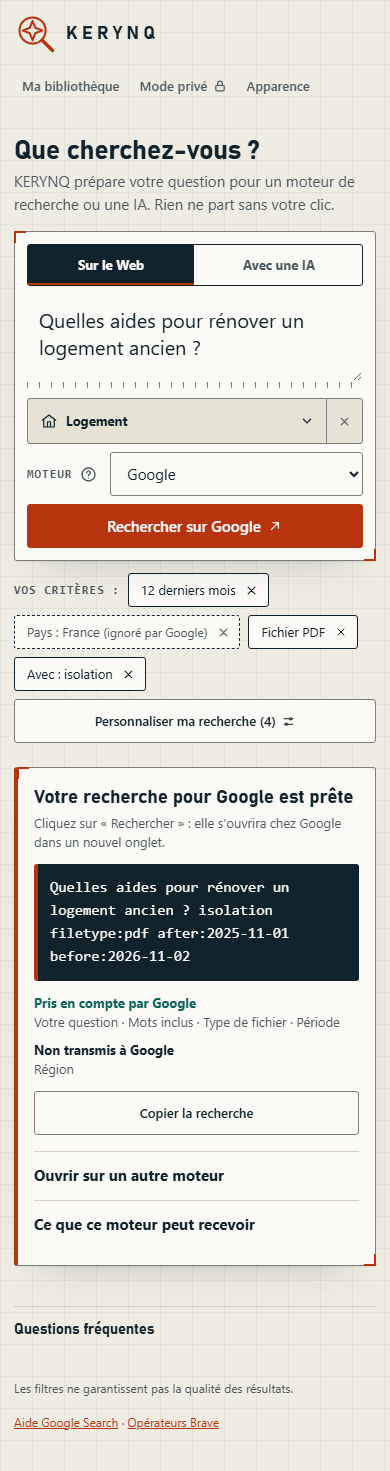
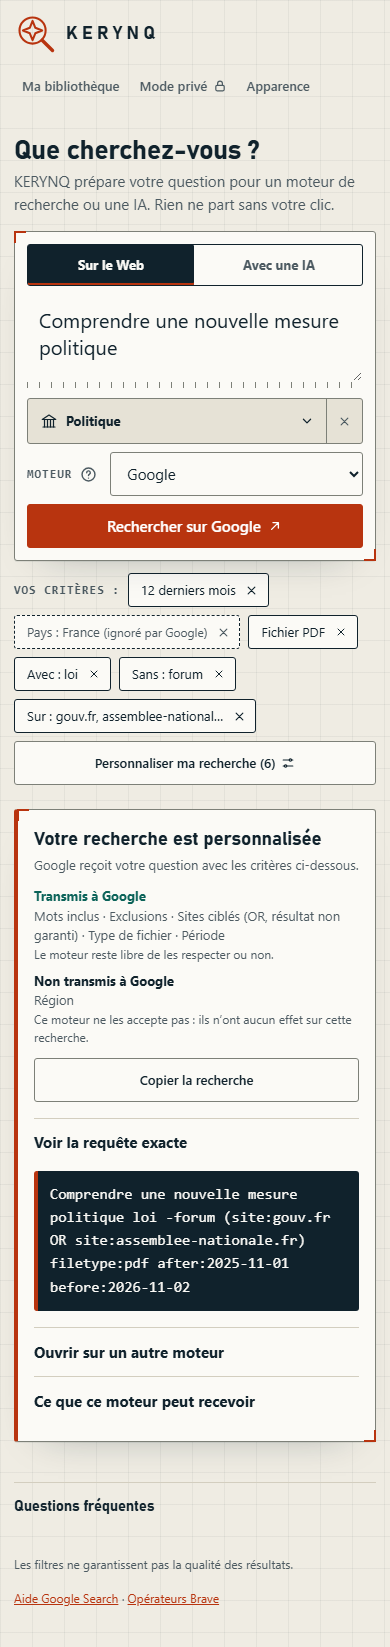
feat: turn the web result panel into a search guide
Show engine-aware suggestions that open the matching setting, summarize what is sent or not, and fold the exact query. Queries, prompts and the AI panel are unchanged.

diff --git a/assets/js/app.js b/assets/js/app.js
@@ -121,7 +121,7 @@ function compatibility(){
  const ignored=[...sites.flatMap(x=>x.invalid).map(x=>x+' (format non reconnu, séparer par une virgule)'),...sites.flatMap(x=>x.overflow).map(x=>x+' (limite de 10 sites)')];
  return {web,prompt,ignored};
 }
-function renderCompatibility(){const root=$('queryCompatibility');root.replaceChildren();const c=compatibility(),engine=KerynqSearch.engineById(state.engine).label;function line(heading,items,ok){if(!items.length)return;const el=node('div','compat-line');el.append(node('strong','',heading),node('span','',items.join(' · ')));if(ok)el.classList.add('compat-applied');root.append(el)}line('Pris en compte par '+engine,c.web.map(x=>x==='Sujet principal'?'Votre question':x),true);line('Non transmis à '+engine,c.prompt.filter(x=>!(x==='Langues préférées'&&state.language===DEFAULT.language)).map(x=>x.replace(/\s*\((non transmise?s?|consigne IA).*\)$/,'')),false);line('Sites ignorés',c.ignored,false)}
+function renderCompatibility(){const root=$('queryCompatibility');root.replaceChildren();const c=compatibility(),engine=KerynqSearch.engineById(state.engine).label;function line(heading,items,ok,note){if(!items.length)return;const el=node('div','compat-line');el.append(node('strong','',heading),node('span','',items.join(' · ')));if(note)el.append(node('small','',note));if(ok)el.classList.add('compat-applied');root.append(el)}line('Transmis à '+engine,c.web.filter(x=>x!=='Sujet principal'),true,'Le moteur reste libre de les respecter ou non.');line('Non transmis à '+engine,c.prompt.filter(x=>!(x==='Langues préférées'&&state.language===DEFAULT.language)).map(x=>x.replace(/\s*\((non transmise?s?|consigne IA).*\)$/,'')),false,'Ce moteur ne les accepte pas : ils n’ont aucun effet sur cette recherche.');line('Sites ignorés',c.ignored,false)}
 // Critères choisis par l'utilisateur : les valeurs par défaut n'y figurent pas.
 const short=(text,max=28)=>text.length>max?text.slice(0,max-1).trim()+'…':text;
 function transmitted(fields){return KerynqSearch.compile({topic:'x',...fields},state.engine).web.length>1}
@@ -160,7 +160,19 @@ function renderSummary(){
 const PROMPT_KEYWORDS=/(\b(?:sources?|dates?|incertitudes?|officiel(?:le)?s?|vérifi\p{L}*)(?![\p{L}]))/giu;
 function appendEmphasis(parent,text){for(const [i,part] of text.split(PROMPT_KEYWORDS).entries())parent.append(i%2?node('strong','pl-key',part):document.createTextNode(part))}
 function renderPromptPreview(){const root=$('promptPreview'),top=root.scrollTop;root.replaceChildren();let list=null;for(const line of KerynqPrompt.structure(buildPrompt())){if(line.type!=='item')list=null;if(line.type==='blank'){root.append(node('div','pl pl-blank'));continue}if(line.type==='title'||line.type==='section'){const h=node(line.type==='title'?'h3':'h4','pl pl-'+line.type);h.append(node('span','pl-marker',line.marker),document.createTextNode(line.text));root.append(h);continue}if(line.type==='item'){if(!list){list=node('ul','pl-list');root.append(list)}const li=node('li','pl pl-item');li.append(node('span','pl-marker',line.marker));if(line.label)li.append(node('span','pl-label',line.label));appendEmphasis(li,line.text);list.append(li);continue}const p=node('p','pl pl-text'+(line.user?' pl-user':''));if(line.user)p.textContent=line.text;else appendEmphasis(p,line.text);root.append(p)}root.scrollTop=top}
-function renderResult(){renderSummary();const filled=!!state.topic.trim(),ai=state.previewTab==='prompt';$('resultPreview').classList.toggle('is-empty',!filled);const service=$(ai?'aiProvider':'engineSelect').selectedOptions[0]?.textContent.replace(/ \(.*/,'').replace(/ · .*/,'')||'';$('resultTitle').textContent=ai?'Votre texte pour '+service+' est prêt':'Votre recherche pour '+service+' est prête';$('resultDestination').textContent=ai?'Cliquez sur « Copier et ouvrir », puis collez le texte dans la conversation.':'Cliquez sur « Rechercher » : elle s’ouvrira chez '+service+' dans un nouvel onglet.';renderPromptPreview();$('queryPreview').textContent=searchQuery(state.engine)||'';$('copyQuery').disabled=!state.topic.trim();$('runSearch').disabled=!state.topic.trim();for(const el of document.querySelectorAll('[data-engine]'))el.disabled=!state.topic.trim();updatePrimary();renderCompatibility();renderEngineTable();}
+// Propositions limitées à ce que le moteur choisi peut recevoir : aucune n'applique de valeur.
+const WEB_SUGGESTIONS=[['period','Période','Limiter aux informations récentes','period'],['filetype','Documents PDF','Chercher un format précis','filetype'],['site','Sites spécifiques','Cibler un ou plusieurs domaines','includeSites'],['exclude','Exclure des mots','Éviter certains termes','excludeWords'],['words','Mots à inclure','Ajouter des termes à la recherche','includeWords']];
+function openSetting(fieldId){const sheet=$('refinePanel');sheet.showModal();const field=$(fieldId);const group=field.closest('details');if(group)group.open=true;field.focus()}
+function renderWebGuide(){
+ const engine=KerynqSearch.engineById(state.engine),compiled=KerynqSearch.compile(state,state.engine),chosen=activeCriteria().length,sent=compiled.web.length>1;
+ $('resultTitle').textContent=sent?'Votre recherche est personnalisée':'Votre recherche est prête';
+ $('resultDestination').textContent=sent?engine.label+' reçoit votre question avec les critères ci-dessous.':chosen?engine.label+' recevra votre question telle quelle : vos critères ne lui sont pas transmis.':engine.label+' recevra votre question telle quelle.';
+ const items=chosen?[]:WEB_SUGGESTIONS.filter(x=>engine.ops[x[0]]).slice(0,4),root=$('webSuggestions'),key=engine.id+':'+items.map(x=>x[0]).join();
+ $('webGuide').hidden=!items.length;$('webGuideNone').hidden=!!(chosen||items.length);$('webGuideNone').textContent=engine.label+' ne reçoit que votre question. Pour ajouter des critères, choisissez un autre moteur.';
+ if(root.dataset.key!==key){root.dataset.key=key;root.replaceChildren();for(const [id,title,hint,field] of items){const b=node('button','suggestion');b.type='button';b.dataset.suggest=id;b.append(node('strong','',title),node('span','',hint));b.addEventListener('click',()=>openSetting(field));root.append(b)}}
+ const exact=compiled.query!==state.topic.trim();$('queryExact').hidden=!exact;if(!exact)$('queryExact').open=false;
+}
+function renderResult(){renderSummary();const filled=!!state.topic.trim(),ai=state.previewTab==='prompt';$('resultPreview').classList.toggle('is-empty',!filled);const service=$(ai?'aiProvider':'engineSelect').selectedOptions[0]?.textContent.replace(/ \(.*/,'').replace(/ · .*/,'')||'';if(ai){$('resultTitle').textContent='Votre texte pour '+service+' est prêt';$('resultDestination').textContent='Cliquez sur « Copier et ouvrir », puis collez le texte dans la conversation.'}else renderWebGuide();renderPromptPreview();$('queryPreview').textContent=searchQuery(state.engine)||'';$('copyQuery').disabled=!state.topic.trim();$('runSearch').disabled=!state.topic.trim();for(const el of document.querySelectorAll('[data-engine]'))el.disabled=!state.topic.trim();updatePrimary();renderCompatibility();renderEngineTable();}
 
 function switchPreview(tab){state.previewTab=tab;const prompt=tab==='prompt';$('tabPrompt').setAttribute('aria-selected',String(prompt));$('tabWeb').setAttribute('aria-selected',String(!prompt));$('tabPrompt').tabIndex=prompt?0:-1;$('tabWeb').tabIndex=prompt?-1:0;$('panelPrompt').hidden=!prompt;$('panelWeb').hidden=prompt;$('enginePicker').hidden=prompt;$('assistantPicker').hidden=!prompt;$('customAIWrap').hidden=!prompt||state.aiProvider!=='custom';document.body.dataset.destination=tab;$('refineHelp').textContent=prompt?'Tout est facultatif. Ces choix s’ajoutent au texte pour l’IA.':'Tout est facultatif. Ces choix s’appliquent à la recherche sur le Web.';renderCategories();updatePrimary();save();renderResult()}
 function updatePrimary(){const ai=state.previewTab==='prompt';const name=$(ai?'aiProvider':'engineSelect').selectedOptions[0]?.textContent.replace(/ \(.*/,'')||'';$('runSearch').textContent=(ai?'Copier et ouvrir ':'Rechercher sur ')+name}
@@ -202,6 +214,7 @@ $('clearSpecial').addEventListener('click',()=>{state.options[state.category]=[]
 $('tabPrompt').addEventListener('click',()=>switchPreview('prompt'));$('tabWeb').addEventListener('click',()=>switchPreview('web'));for(const b of [$('tabPrompt'),$('tabWeb')])b.addEventListener('keydown',e=>{const keys=['ArrowLeft','ArrowRight','Home','End'];if(!keys.includes(e.key))return;e.preventDefault();const target=e.key==='Home'?$('tabPrompt'):e.key==='End'?$('tabWeb'):b===$('tabPrompt')?$('tabWeb'):$('tabPrompt');target.focus();target.click()});
 $('copyPrompt').addEventListener('click',()=>copy(buildPrompt()));$('copyQuery').addEventListener('click',()=>copy(searchQuery(state.engine)));$('downloadPrompt').addEventListener('click',()=>download('kerynq-consigne.md',buildPrompt()+'\n','text/markdown;charset=utf-8'));
 for(const b of document.querySelectorAll('[data-engine]'))b.addEventListener('click',()=>{if(!state.topic.trim())return notify('Écrivez d’abord votre question');const engine=b.dataset.engine;state.engine=engine;$('engineSelect').value=engine;save();renderResult();const url=searchUrl(engine);const a=document.createElement('a');a.href=url;a.target='_blank';a.rel='noopener noreferrer';document.body.append(a);a.click();a.remove()});
+$('refinePanel').addEventListener('close',()=>{const a=document.activeElement;if(!a||a===document.body||$('refinePanel').contains(a)||!a.offsetParent)$('refineToggle').focus()});
 for(const [toggle,sheet,close] of [['refineToggle','refinePanel','refineClose'],['libraryToggle','libraryPanel','libraryClose']]){$(toggle).addEventListener('click',()=>{if(sheet==='libraryPanel')renderLibrary();$(sheet).showModal()});$(close).addEventListener('click',()=>$(sheet).close());$(sheet).addEventListener('click',e=>{if(e.target===$(sheet))$(sheet).close()})}
 $('fontToggle').addEventListener('click',()=>{state.largeText=!state.largeText;save();sync()});$('themeToggle').addEventListener('click',()=>toggleThemeMenu());
 $('exportConfig').addEventListener('click',()=>{if(privateMode)return notify('Quittez le mode privé pour exporter un profil');download('kerynq-v5-sauvegarde.json',JSON.stringify({app:'KERYNQ',version:5,settings:state,favorites:getSaved(),templates:getCustomTemplates()},null,2),'application/json;charset=utf-8')});

diff --git a/index.html b/index.html
@@ -80,10 +80,12 @@
     <p id="aiTransferNote" class="note">KERYNQ n’envoie rien à l’assistant. Vous seul collez le texte, et le service applique ses propres conditions.</p>
   </div></section>
   <section id="panelWeb" class="preview-panel" role="tabpanel" aria-labelledby="tabWeb" tabindex="-1" hidden><div class="when-filled">
-    <output id="queryPreview" class="preview-mono" aria-label="Recherche envoyée au moteur" aria-live="polite"></output>
+    <div id="webGuide" class="web-guide"><h3 id="suggestTitle">Rendez votre recherche plus précise</h3><div id="webSuggestions" class="suggestions" role="group" aria-labelledby="suggestTitle"></div></div>
+    <p id="webGuideNone" class="sub" hidden></p>
     <div id="queryCompatibility" class="query-compatibility" aria-live="polite"></div>
     <div id="engineSuggest" class="engine-suggest" hidden><span id="engineSuggestText"></span><button type="button" class="btn" id="useSuggestedEngine">Utiliser ce moteur</button></div>
     <div class="preview-actions"><button type="button" class="btn" id="copyQuery">Copier la recherche</button></div>
+    <details class="fold query-exact" id="queryExact"><summary>Voir la requête exacte</summary><output id="queryPreview" class="preview-mono" aria-label="Recherche envoyée au moteur"></output></details>
     <details class="fold engine-other"><summary>Ouvrir sur un autre moteur</summary><div class="go-search" id="engineButtons" role="group" aria-label="Ouvrir la recherche"></div></details>
     <details class="fold engine-table-wrap"><summary>Ce que ce moteur peut recevoir</summary><table class="engine-table"><caption class="sr-only">Filtres transmis par KERYNQ au moteur choisi</caption><thead><tr><th scope="col">Filtre</th><th scope="col" id="engineTableName">Moteur</th></tr></thead><tbody id="engineTable"></tbody></table><p class="note">« Transmis » signifie que le filtre figure dans la recherche envoyée. Le moteur peut l’ignorer ou l’interpréter à sa façon.</p></details>
   </div></section>

diff --git a/assets/css/styles.css b/assets/css/styles.css
@@ -247,6 +247,15 @@ h1 label{display:inline;margin:0;font:inherit;letter-spacing:inherit;text-transf
 .compat-line strong{display:block;font-weight:650}
 .compat-line span{color:var(--muted)}
 .compat-applied strong{color:var(--ok)}
+.compat-line small{display:block;color:var(--muted);font-size:var(--t-xs)}
+.query-compatibility:empty{display:none}
+.web-guide h3{margin:var(--s2) 0 var(--s3);font-size:var(--t-md)}
+.suggestions{display:grid;grid-template-columns:repeat(2,minmax(0,1fr));gap:var(--s2)}
+.query-exact[hidden]+.fold{margin-top:var(--s4)}
+.suggestion{display:block;min-height:44px;padding:var(--s3);border:1px solid var(--line);border-radius:var(--radius-sm);background:none;cursor:pointer;text-align:left;transition:border-color .15s,background-color .15s}
+.suggestion:hover{border-color:var(--accent);background:var(--soft)}
+.suggestion strong{display:block;font-size:var(--t-sm);font-weight:650;color:var(--accent)}
+.suggestion span{display:block;font-size:var(--t-sm);color:var(--muted)}
 .engine-suggest{display:flex;align-items:center;justify-content:space-between;gap:var(--s2);flex-wrap:wrap;margin-top:var(--s3);padding:var(--s2) var(--s3);background:var(--soft);border-radius:var(--radius-sm);font-size:var(--t-sm)}
 .engine-table{width:100%;border-collapse:collapse;table-layout:fixed;font-size:var(--t-xs)}
 .engine-table th,.engine-table td{padding:6px 4px;border-bottom:1px solid var(--line);text-align:left;font-weight:500}
@@ -329,7 +338,7 @@ body[data-destination="web"] .only-ai{display:none}
   .active-summary{flex-basis:100%}
   .segmented{display:flex}
   .segmented button{flex:1;padding-inline:var(--s1)}
-  .form-grid,.folder-tools{grid-template-columns:minmax(0,1fr)}
+  .form-grid,.folder-tools,.suggestions{grid-template-columns:minmax(0,1fr)}
   .prepared{padding:var(--s4)}
   .preview-actions .btn{flex:1 1 auto}
   .sheet-head,.sheet-body{padding-inline:var(--s4)}

diff --git a/service-worker.js b/service-worker.js
@@ -1,5 +1,5 @@
 // Offline cache for local UI assets only. Does not cache external search results.
-const CACHE = 'kerynq-static-v19';
+const CACHE = 'kerynq-static-v20';
 const CORE = ['./', './index.html', './assets/js/core/search-query-core.js', './assets/js/core/privacy-core.js', './assets/js/core/prompt-core.js', './assets/js/core/catalog-core.js', './assets/js/app.js', './assets/js/register-sw.js', './assets/css/styles.css', './assets/icons/favicon.svg', './manifest.webmanifest'];
 self.addEventListener('install', event => event.waitUntil(caches.open(CACHE).then(cache => cache.addAll(CORE)).then(() => self.skipWaiting())));
 self.addEventListener('activate', event => event.waitUntil(caches.keys().then(names => Promise.all(names.filter(name => name.startsWith('kerynq-static-') && name !== CACHE).map(name => caches.delete(name)))).then(() => self.clients.claim())));

diff --git a/tests/browser/regressions-browser-smoke.py b/tests/browser/regressions-browser-smoke.py
@@ -48,8 +48,7 @@ with sync_playwright() as p:
         assert box['y']<=run['y'] and run['y']+run['height']<=box['y']+box['height']
         page.locator('#tabWeb').click()
         page.locator('#topic').fill('Chat')
-        assert page.locator('#resultTitle').inner_text()=='Votre recherche pour Google est prête'
-        assert 'Votre question' in page.locator('#queryCompatibility').inner_text()
+        assert page.locator('#resultTitle').inner_text()=='Votre recherche est prête'
         assert not errors,errors;ctx.close()
         # Profil existant : le thème enregistré est préservé, y compris s'il était implicite.
         for stored,expected in (({'theme':'light'},'light'),({'topic':'x'},'dark'),({'theme':'inconnu'},'kerynq')):
@@ -265,6 +264,53 @@ with sync_playwright() as p:
         assert page.locator('#engineSuggest').is_hidden()
         page.locator('#tabPrompt').click();assert 'Teste les affirmations' in page.evaluate(PROMPT)
         ctx.close()
+        # Panneau Web : question simple, suggestions réelles, rien d'appliqué, pas de doublon.
+        ctx,page,errors=open_app(browser,width,{'kerynq-premium-v5':{'previewTab':'web','topic':'Mesure politique'}})
+        assert 'Google recevra votre question telle quelle' in page.locator('#resultDestination').inner_text()
+        assert page.locator('.suggestion').count()==4 and page.locator('#queryExact').is_hidden() and page.locator('#queryPreview').is_hidden()
+        assert page.locator('#copyQuery').is_visible() and page.locator('#resultPreview #runSearch').count()==0
+        for key,field in (('period','period'),('filetype','filetype'),('site','includeSites'),('exclude','excludeWords')):
+            s=page.locator(f'[data-suggest="{key}"]');s.focus();page.keyboard.press('Enter')
+            assert page.locator('#refinePanel').is_visible() and page.evaluate('document.activeElement.id')==field,key
+            page.keyboard.press('Escape')
+            assert page.evaluate('document.activeElement.dataset.suggest')==key,key
+            assert page.locator('.chip').count()==0 and page.locator('#queryPreview').text_content()=='Mesure politique',key
+        # Période puis PDF : synthèse, requête exacte repliée, focus conservé.
+        page.locator('[data-suggest="period"]').click();page.locator('#period').select_option('year');page.locator('#refineClose').click()
+        page.wait_for_timeout(150);assert page.evaluate('document.activeElement.id')=='refineToggle'
+        assert page.locator('#resultTitle').inner_text()=='Votre recherche est personnalisée' and page.locator('.suggestion').count()==0 and page.locator('#webGuide').is_hidden()
+        assert 'Transmis à Google' in page.locator('#queryCompatibility').inner_text() and 'Période' in page.locator('#queryCompatibility').inner_text()
+        assert 'Appliqué' not in page.locator('#panelWeb').inner_text() and 'Pris en compte' not in page.locator('#panelWeb').inner_text()
+        assert page.locator('#queryExact').is_visible() and page.locator('#queryPreview').is_hidden()
+        page.locator('#queryExact summary').click();assert 'after:' in page.locator('#queryPreview').inner_text()
+        page.evaluate("()=>{document.execCommand=()=>{window.kerynqTestCopy=document.activeElement.value;return true}}")
+        page.locator('#copyQuery').click();page.wait_for_timeout(150)
+        assert page.evaluate('window.kerynqTestCopy')==page.locator('#queryPreview').text_content()
+        # Moteur qui ne reçoit pas le critère : jamais présenté comme transmis.
+        page.locator('#engineSelect').select_option('googleimages')
+        compat=page.locator('#queryCompatibility').inner_text()
+        assert 'Transmis à' not in compat and 'Non transmis à Google Images' in compat and page.locator('#resultTitle').inner_text()=='Votre recherche est prête' and 'ne lui sont pas transmis' in page.locator('#resultDestination').inner_text()
+        assert page.locator('#queryExact').is_hidden()
+        # Web, IA, retour : critères conservés, panneau IA inchangé.
+        page.locator('#tabPrompt').click();assert page.locator('#promptPreview').is_visible() and page.locator('#webSuggestions').is_hidden() and 'Votre texte pour' in page.locator('#resultTitle').inner_text()
+        page.locator('#tabWeb').click();assert page.locator('.chip').count()==1
+        assert overflow(page)<=2 and not errors,errors;ctx.close()
+        # PDF, exclusions et sites, plusieurs critères.
+        ctx,page,errors=open_app(browser,width,{'kerynq-premium-v5':{'previewTab':'web','topic':'Sujet','filetype':'pdf','excludeWords':'pub','includeSites':'ameli.fr','region':'France'}})
+        compat=page.locator('#queryCompatibility').inner_text()
+        for label in ('Type de fichier','Exclusions','Site ciblé'):assert label in compat,label
+        assert 'Région' in compat.split('Non transmis à Google')[1] and page.locator('#webGuide').is_hidden()
+        assert not errors,errors;ctx.close()
+        # Les 28 moteurs : suggestions limitées à leurs capacités, requête inchangée sans critère.
+        ctx,page,errors=open_app(browser,width,{'kerynq-premium-v5':{'previewTab':'web','topic':'Sujet'}})
+        engines=page.evaluate('KerynqSearch.ENGINES.map(e=>[e.id,e.ops])');assert len(engines)==28
+        for id,ops in engines:
+            page.locator('#engineSelect').select_option(id)
+            shown=page.locator('.suggestion').evaluate_all('l=>l.map(e=>e.dataset.suggest)')
+            assert len(shown)<=4 and all(ops.get(k) for k in shown),(id,shown)
+            assert shown or page.locator('#webGuideNone').is_visible(),id
+            assert page.locator('#queryExact').is_hidden(),id
+        assert not errors,errors;ctx.close()
         # Un fournisseur importé ne peut pas viser une propriété héritée.
         ctx,page,errors=open_app(browser,width,{'kerynq-premium-v5':{'aiProvider':'constructor'}})
         assert page.locator('#aiProvider').input_value()=='chatgpt'

diff --git a/docs/UX_REFONTE.md b/docs/UX_REFONTE.md
@@ -86,3 +86,19 @@ Non vérifié : avis d'utilisateurs réels, Safari et Chrome réels, téléphone
 ## Aperçu du texte pour l'IA
 
 Le texte est affiché en HTML structuré : titres de section à la couleur d'accent du thème, libellés en gras, listes espacées, quelques mots-clés renforcés. La chaîne de `buildPrompt()` reste la seule source : la copie et l'export la reprennent telle quelle, sans HTML. `KerynqPrompt.structure` découpe les lignes, et l'affichage passe uniquement par `textContent` et des nœuds de texte. Les marques Markdown restent visibles en discret. Seuls les titres de section connus sont stylés comme des titres : la question de l'utilisateur reste du texte simple.
+
+## Panneau Web
+
+Le bloc du haut sert à saisir et lancer. Le panneau du bas sert à comprendre, personnaliser et contrôler. Il ne contient aucun bouton de lancement.
+
+| Situation | Contenu |
+|---|---|
+| Sans question | Deux exemples |
+| Question sans critère | « Votre recherche est prête », et jusqu'à quatre suggestions limitées aux capacités du moteur. Une suggestion ouvre le réglage et y place le focus, sans rien appliquer. |
+| Critères transmis | « Votre recherche est personnalisée », avec ce qui est transmis et ce qui ne l'est pas. |
+| Critères tous refusés | « Votre recherche est prête », avec le moteur qui ne les reçoit pas. |
+| Requête différente de la question | « Voir la requête exacte », replié par défaut. |
+
+![Recherche Web avec critères](images/ux-apres-web-filtres.png)
+
+Le mot « transmis » est employé à la place de « appliqué » : un moteur peut ignorer un opérateur reçu. Le panneau IA ne change pas.

diff --git a/CHANGELOG.md b/CHANGELOG.md
@@ -12,6 +12,7 @@ Ce journal suit les changements vérifiables de KERYNQ. Les versions décrivent 
 - Recherche préparée : service, texte exact, critères pris en compte et action suivante.
 - « Ma bibliothèque » : favoris, dossiers, modèles, sauvegarde et données restaurés.
 - Textes de l'interface réécrits.
+- Panneau Web : suggestions réelles, synthèse des critères transmis, requête exacte repliée.
 - Aperçu du texte pour l'IA mis en forme, sans changement du texte copié ou exporté.
 - Fact Check Explorer retiré. Un profil qui l'utilisait revient à Google.
 - Six moteurs d'images (28 moteurs au total), cinq thèmes ajoutés auparavant (Manga, Médecine, Tuning, Animaux, Finance).
